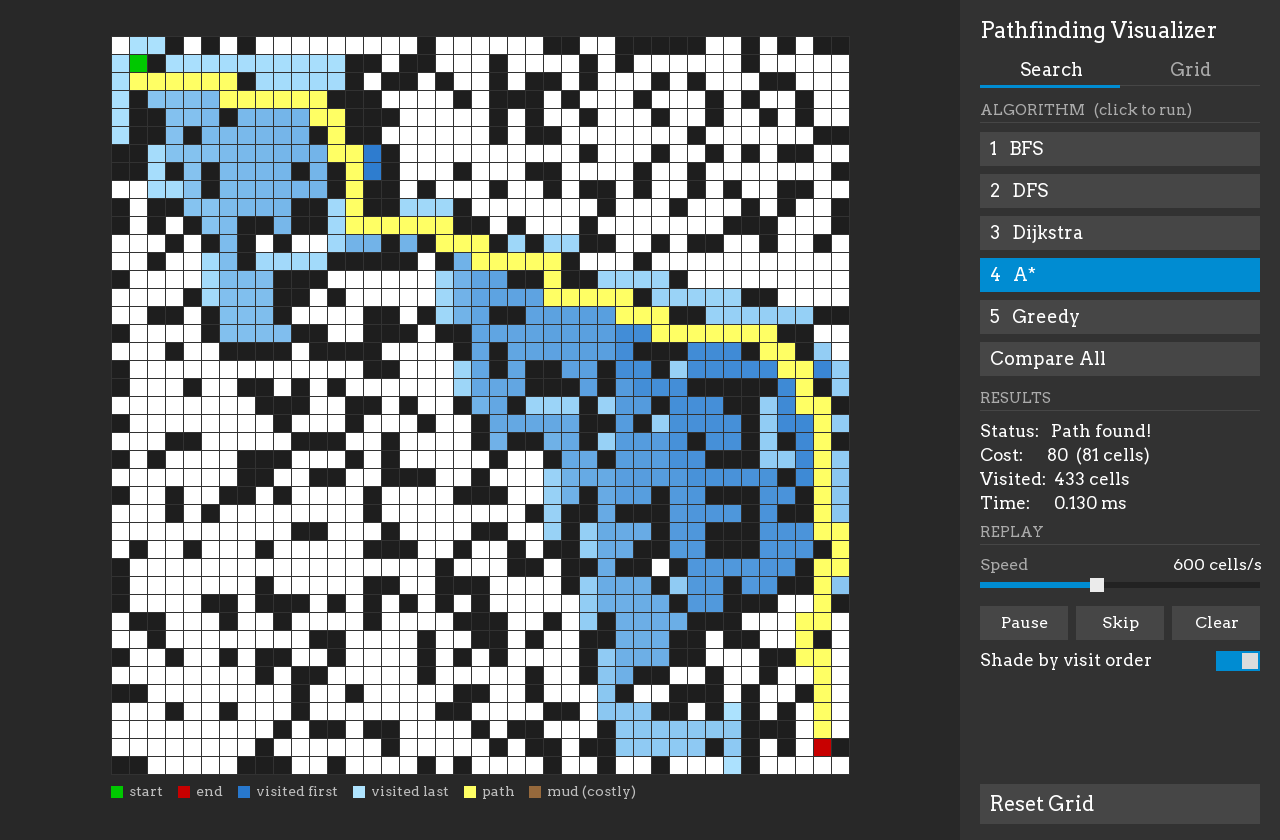
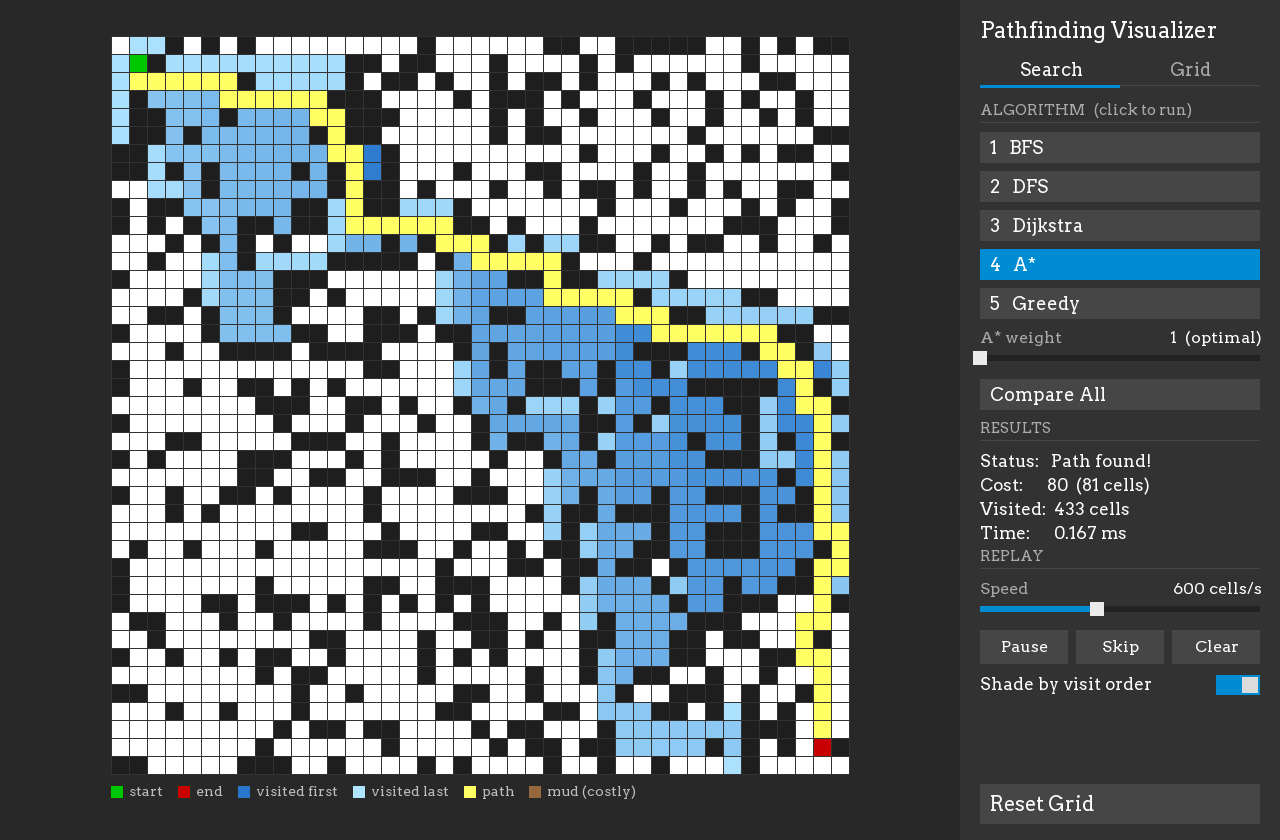
feat: weighted A* with a proven bound
- search() takes an A* weight w: priority g + w*h, integer-scaled; weight 1 is plain A*
- Property test: path cost at most w times the optimum on random weighted grids for w from 1.2 to 5
- Benchmark rows for w = 1.5, 2, 3, 5: on terrain w = 5 expands 140x fewer cells than Dijkstra for +13.7% cost
- App: A* weight slider in the Search tab; Compare All and results show the weight and its bound
- README: results and the reasoning (weight must reach the average step cost before it helps)

Changed region(s): [[0.75, 0.4643, 1.0, 0.8357], [0.75, 0.2167, 1.0, 0.4333], [0.7812, 0.1548, 0.8125, 0.1857]]

diff --git a/app/panel.cpp b/app/panel.cpp
@@ -1,5 +1,6 @@
 // The side panel: a Search tab (run, compare, replay) and a Grid tab (generate, draw).
 #include <algorithm>
+#include <cmath>
 #include <cstdio>
 #include <string>
 
@@ -48,7 +49,9 @@ void results(ui::Ui& u, State& s) {
             if (c.result.found && (best < 0 || c.result.cost < best)) best = c.result.cost;
         for (const auto& c : s.comparison) {
             const bool sel = c.algorithm == s.algorithm;
-            u.text(std::string(pf::name(c.algorithm)), 17, sel ? ui::colors::Accent : Text);
+            std::string label(pf::name(c.algorithm));
+            if (c.algorithm == pf::Algorithm::AStar && s.astar_weight > 1.05f) label += " w" + fixed(s.astar_weight, 1);
+            u.text(label, 17, sel ? ui::colors::Accent : Text);
             u.text(c.result.found ? thousands(c.result.cost) : "-", 17,
                    !c.result.found ? Dim : c.result.cost == best ? Good : Warning, 120);
             u.text(thousands(static_cast<long long>(c.result.nodes_expanded())), 17, Text, 190);
@@ -63,6 +66,8 @@ void results(ui::Ui& u, State& s) {
     if (s.result.found)
         u.line("Cost:      " + thousands(s.result.cost) + "  (" + thousands(static_cast<long long>(s.result.path.size())) + " cells)");
     u.line("Visited:  " + thousands(static_cast<long long>(s.result.nodes_expanded())) + " cells");
+    if (s.algorithm == pf::Algorithm::AStar && s.astar_weight > 1.05f)
+        u.line("Bound:    at most " + fixed(s.astar_weight, 1) + "x the cheapest", Dim, 16);
     u.line("Time:      " + fixed(s.search_ms, 3) + " ms");
 }
 
@@ -71,15 +76,18 @@ void search_tab(ui::Ui& u, State& s) {
     for (std::size_t i = 0; i < pf::kAlgorithms.size(); ++i) {
         const pf::Algorithm a = pf::kAlgorithms[i];
         const std::string label = std::to_string(i + 1) + "   " + std::string(pf::name(a));
-        if (u.button(label, a == s.algorithm && s.phase != Phase::Idle, 0, 34)) run(s, a);
+        if (u.button(label, a == s.algorithm && s.phase != Phase::Idle, 0, 31)) run(s, a);
         u.tooltip(hint(a));
     }
-    if (u.button("Compare All", false, 0, 34)) compare_all(s);
+    const float before = s.astar_weight;
+    u.slider("A* weight", s.astar_weight, 1.0f, 6.0f, s.astar_weight < 1.05f ? std::string("1  (optimal)") : fixed(s.astar_weight, 1));
+    s.astar_weight = std::round(s.astar_weight * 10.0f) / 10.0f;
+    u.tooltip("Above 1: weighted A*. Faster; path at most w times the cheapest");
+    if (s.astar_weight != before && s.algorithm == pf::Algorithm::AStar && s.phase != Phase::Idle) run(s, s.algorithm);
+    if (u.button("Compare All", false, 0, 31)) compare_all(s);
     u.tooltip("Run all five on this grid  (A)");
-    u.gap(4);
 
     results(u, s);
-    u.gap(6);
 
     u.heading("REPLAY");
     u.slider("Speed", s.speed, 25.0f, 50000.0f, thousands(static_cast<long long>(s.speed)) + " cells/s", true);

diff --git a/src/search.cpp b/src/search.cpp
@@ -2,6 +2,7 @@
 
 #include <algorithm>
 #include <array>
+#include <cmath>
 #include <cstdlib>
 #include <functional>
 #include <limits>
@@ -96,9 +97,14 @@ SearchResult dfs(const Grid& grid, Point start, Point goal) {
 // queue entries are skipped on pop (lazy deletion) instead of decreasing keys.
 enum class Order { Cost, CostPlusHeuristic, Heuristic };
 
-SearchResult best_first(const Grid& grid, Point start, Point goal, Order order) {
+// Priorities are integers: costs times kScale, so a fractional A* weight stays exact enough
+// without floating-point ties.
+constexpr long long kScale = 1000;
+
+SearchResult best_first(const Grid& grid, Point start, Point goal, Order order, double weight = 1.0) {
     SearchResult result;
     const long long h_scale = order == Order::Cost ? 0 : min_cost(grid);
+    const long long w = std::llround(std::max(weight, 1.0) * kScale);
     auto h = [&](Point p) { return h_scale * manhattan(p, goal); };
 
     std::vector<int> parent(grid.size(), -1);
@@ -110,8 +116,8 @@ SearchResult best_first(const Grid& grid, Point start, Point goal, Order order) 
 
     auto priority = [&](long long g_cost, Point p) {
         switch (order) {
-            case Order::Cost: return g_cost;
-            case Order::CostPlusHeuristic: return g_cost + h(p);
+            case Order::Cost: return g_cost * kScale;
+            case Order::CostPlusHeuristic: return g_cost * kScale + w * h(p);
             case Order::Heuristic: return h(p);
         }
         return g_cost;
@@ -165,13 +171,13 @@ bool optimal_on(Algorithm algorithm, bool uniform_cost) noexcept {
     return false;
 }
 
-SearchResult search(const Grid& grid, Point start, Point goal, Algorithm algorithm) {
+SearchResult search(const Grid& grid, Point start, Point goal, Algorithm algorithm, double astar_weight) {
     if (!grid.passable(start) || !grid.passable(goal)) return {};
     switch (algorithm) {
         case Algorithm::BFS: return bfs(grid, start, goal);
         case Algorithm::DFS: return dfs(grid, start, goal);
         case Algorithm::Dijkstra: return best_first(grid, start, goal, Order::Cost);
-        case Algorithm::AStar: return best_first(grid, start, goal, Order::CostPlusHeuristic);
+        case Algorithm::AStar: return best_first(grid, start, goal, Order::CostPlusHeuristic, astar_weight);
         case Algorithm::Greedy: return best_first(grid, start, goal, Order::Heuristic);
     }
     return {};

diff --git a/bench/bench.cpp b/bench/bench.cpp
@@ -48,20 +48,29 @@ void run(const Scenario& scenario, int size, int seeds) {
                 grids.size());
     std::printf("| Algorithm | Median time (ms) | Median cells expanded | Path cost vs optimum |\n");
     std::printf("|---|---|---|---|\n");
-    for (pf::Algorithm algorithm : pf::kAlgorithms) {
+    struct Variant {
+        pf::Algorithm algorithm;
+        double weight;
+    };
+    std::vector<Variant> variants;
+    for (pf::Algorithm a : pf::kAlgorithms) variants.push_back({a, 1.0});
+    for (double w : {1.5, 2.0, 3.0, 5.0}) variants.push_back({pf::Algorithm::AStar, w});
+    for (const auto [algorithm, weight] : variants) {
         std::vector<double> ms;
         std::vector<std::size_t> expanded;
         std::vector<double> ratio;
         for (std::size_t g = 0; g < grids.size(); ++g) {
             const auto t0 = std::chrono::steady_clock::now();
-            const auto result = pf::search(grids[g], start, goal, algorithm);
+            const auto result = pf::search(grids[g], start, goal, algorithm, weight);
             const auto t1 = std::chrono::steady_clock::now();
             ms.push_back(std::chrono::duration<double, std::milli>(t1 - t0).count());
             expanded.push_back(result.nodes_expanded());
             ratio.push_back(static_cast<double>(result.cost) / static_cast<double>(optimum[g]));
         }
-        std::printf("| %s | %.2f | %zu | %+.1f%% |\n", std::string(pf::name(algorithm)).c_str(),
-                    median(ms), median(expanded), 100.0 * (median(ratio) - 1.0));
+        std::string label(pf::name(algorithm));
+        if (weight != 1.0) label += " (w=" + std::to_string(weight).substr(0, 3) + ")";
+        std::printf("| %s | %.2f | %zu | %+.1f%% |\n", label.c_str(), median(ms), median(expanded),
+                    100.0 * (median(ratio) - 1.0));
     }
 }
 

diff --git a/tests/test_search.cpp b/tests/test_search.cpp
@@ -197,3 +197,29 @@ TEST_CASE("path_cost rejects broken walks") {
     CHECK(pf::path_cost(grid, {{1, 0}, {1, 1}}) == -1);          // through a wall
     CHECK(pf::path_cost(grid, {{0, 0}, {1, 0}, {2, 0}}) == 2);
 }
+
+TEST_CASE("weighted A* stays within its weight of the optimum (weighted grids)") {
+    const auto seed = GENERATE(range<std::uint64_t>(0, 60));
+    const Grid grid = open_corners(pf::random_terrain(40, 40, 0.2, 9, seed));
+    const auto optimum = pf::search(grid, {0, 0}, far_corner(grid), Algorithm::Dijkstra);
+    if (!optimum.found) return;
+    for (double w : {1.2, 1.5, 2.0, 3.0, 5.0}) {
+        const auto r = pf::search(grid, {0, 0}, far_corner(grid), Algorithm::AStar, w);
+        INFO("seed " << seed << " weight " << w);
+        REQUIRE(r.found);
+        CHECK(pf::path_cost(grid, r.path) == r.cost);
+        CHECK(static_cast<double>(r.cost) <= w * static_cast<double>(optimum.cost));
+    }
+}
+
+TEST_CASE("weight 1 is plain A*, and a large weight expands far fewer cells") {
+    const auto seed = GENERATE(range<std::uint64_t>(0, 30));
+    const Grid grid = open_corners(pf::random_terrain(60, 60, 0.15, 9, seed));
+    const auto plain = pf::search(grid, {0, 0}, far_corner(grid), Algorithm::AStar);
+    const auto one = pf::search(grid, {0, 0}, far_corner(grid), Algorithm::AStar, 1.0);
+    const auto five = pf::search(grid, {0, 0}, far_corner(grid), Algorithm::AStar, 5.0);
+    INFO("seed " << seed);
+    CHECK(one.cost == plain.cost);
+    CHECK(one.expanded == plain.expanded);
+    if (plain.found) CHECK(five.nodes_expanded() < plain.nodes_expanded());
+}

diff --git a/include/pathfinder/search.hpp b/include/pathfinder/search.hpp
@@ -32,8 +32,11 @@ struct SearchResult {
     [[nodiscard]] std::size_t nodes_expanded() const noexcept { return expanded.size(); }
 };
 
+// `astar_weight` w >= 1 turns A* into weighted A*: it orders cells by g + w·h, trading
+// optimality for speed. With the consistent heuristic used here the path costs at most w
+// times the optimum (no cell is ever re-expanded). Other algorithms ignore it.
 [[nodiscard]] SearchResult search(const Grid& grid, Point start, Point goal,
-                                  Algorithm algorithm);
+                                  Algorithm algorithm, double astar_weight = 1.0);
 
 // Cost of walking `path` on `grid`, or -1 if it is not a walk of passable 4-neighbours.
 [[nodiscard]] long long path_cost(const Grid& grid, const std::vector<Point>& path);

diff --git a/app/main.cpp b/app/main.cpp
@@ -2,7 +2,7 @@
 //
 //   pathfinder-app
 //   pathfinder-app --screenshot out.png [--scene maze|walls|terrain] [--algorithm bfs]
-//                  [--seed 7] [--compare] [--grid-tab]
+//                  [--seed 7] [--weight 1.5] [--compare] [--grid-tab]
 #include <cmath>
 #include <cstdio>
 #include <cstdlib>
@@ -82,6 +82,7 @@ int screenshot(int argc, char** argv, const sf::Font& font) {
         return EXIT_FAILURE;
     }
     s.algorithm = *algorithm;
+    s.astar_weight = static_cast<float>(std::atof(option(argc, argv, "--weight", "1")));
     if (has_flag(argc, argv, "--compare")) app::compare_all(s);
     else app::run(s, *algorithm);
     app::skip_to_end(s);

diff --git a/app/model.cpp b/app/model.cpp
@@ -8,7 +8,7 @@ namespace {
 
 double timed_search(const State& s, pf::Algorithm algorithm, pf::SearchResult& out) {
     const auto t0 = std::chrono::steady_clock::now();
-    out = pf::search(s.grid, s.start, s.goal, algorithm);
+    out = pf::search(s.grid, s.start, s.goal, algorithm, s.astar_weight);
     return std::chrono::duration<double, std::milli>(std::chrono::steady_clock::now() - t0).count();
 }
 

diff --git a/app/app.hpp b/app/app.hpp
@@ -40,6 +40,7 @@ struct State {
     pf::Point start{1, 1};
     pf::Point goal{39, 39};
     pf::Algorithm algorithm = pf::Algorithm::BFS;
+    float astar_weight = 1.0f;  // > 1: weighted A*, faster, at most this many times the optimum
 
     // the last search and its replay
     pf::SearchResult result;

diff --git a/README.md b/README.md
@@ -33,7 +33,8 @@ bench/                headless benchmark
   it is queued, and is expanded at most once (Dijkstra, A* and greedy skip stale queue
   entries). That makes "cells expanded" comparable across algorithms; a test checks it.
 - **A\* stays optimal on weighted grids.** Its Manhattan heuristic is scaled by the cheapest
-  cell cost, so it never overestimates. Ties go to the deeper node.
+  cell cost, so it never overestimates. Ties go to the deeper node. An optional weight w turns
+  it into weighted A* (g + w·h), bounded at w times the optimum.
 - **Mazes are perfect mazes,** carved by iterative recursive backtracking: exactly one path
   between any two open cells (a test checks it is a spanning tree). Random walls and weighted
   terrain are the other two generators. All three are seeded and deterministic.
@@ -48,58 +49,70 @@ Times are medians and vary between machines; cells expanded and path costs don't
 
 | Algorithm | Time (ms) | Cells expanded | Path cost vs optimum |
 |---|---|---|---|
-| BFS | 12.1 | 172,494 | optimal |
-| DFS | 1.9 | 33,962 | +1,839% |
-| Dijkstra | 34.7 | 172,495 | optimal |
-| A* | 5.9 | 18,961 | optimal |
-| Greedy | 0.8 | 1,893 | +33% |
+| BFS | 17.3 | 172,494 | optimal |
+| DFS | 2.9 | 33,962 | +1,839% |
+| Dijkstra | 45.3 | 172,495 | optimal |
+| A* | 7.1 | 18,961 | optimal |
+| Greedy | 1.3 | 1,893 | +33% |
+| A* w=1.5 | 2.0 | 2,454 | +8.8% |
+| A* w=2 | 1.5 | 2,275 | +16% |
+| A* w=5 | 1.4 | 1,925 | +27% |
 
 **Weighted terrain, costs 1–9, 20% walls**
 
 | Algorithm | Time (ms) | Cells expanded | Path cost vs optimum |
 |---|---|---|---|
-| BFS | 11.3 | 200,395 | +45% |
-| DFS | 1.4 | 30,870 | +3,484% |
-| Dijkstra | 44.3 | 200,394 | optimal |
-| A* | 49.0 | 200,386 | optimal |
-| Greedy | 0.7 | 1,149 | +77% |
+| BFS | 14.7 | 200,395 | +45% |
+| DFS | 2.2 | 30,870 | +3,484% |
+| Dijkstra | 60.8 | 200,394 | optimal |
+| A* | 72.2 | 200,386 | optimal |
+| Greedy | 1.3 | 1,149 | +77% |
+| A* w=2 | 73.1 | 200,329 | +0.1% |
+| A* w=3 | 68.8 | 158,289 | +0.6% |
+| A* w=5 | 1.3 | 1,431 | +13.7% |
 
 What the numbers say:
 
 - **On uniform cost, A\* expands 11% of the cells BFS and Dijkstra do** and is 6× faster than
   Dijkstra, with the same optimal path.
-- **On weighted terrain A\* gains nothing.** Its admissible heuristic (distance × the minimum
-  cost, 1) is far below the average cost of a step (~5), so it barely guides the search: it
-  expands as much as Dijkstra and pays for computing the heuristic. A tighter heuristic would
-  give up the optimality guarantee.
+- **On weighted terrain plain A\* gains nothing.** Its admissible heuristic (distance × the
+  cheapest cell cost, 1) is far below the average cost of a step (~5), so it barely guides the
+  search: it expands as much as Dijkstra and pays for computing the heuristic.
+- **Weighted A\* fixes that, at a bounded price.** Ordering by g + w·h gives up optimality but
+  guarantees a path at most w times the cheapest (a test checks the bound on random grids). On
+  terrain nothing happens until w approaches the average step cost: at w = 3 it still expands
+  158k cells, at **w = 5 it expands 1,431 (140× fewer than Dijkstra) and runs 45× faster, for a
+  path 13.7% costlier**. On uniform grids w = 1.5 already cuts expansions 7.7× for +8.8%.
 - **BFS ignores cost.** On terrain it takes 45% more expensive paths. It is still the fastest
   optimal search on uniform grids, since a FIFO queue is cheaper than a heap.
 - **Greedy is fastest and wrong,** 33–77% off the optimum. DFS is worse.
-- In a perfect maze every algorithm finds the only path; A* saves 3% of the expansions.
+- In a perfect maze every algorithm finds the only path; even w = 5 saves only 11% of A*'s
+  expansions, because a maze leaves no shortcut to aim for.
 
-**Compare All** runs the five algorithms on the grid on screen. On this weighted terrain
-(browner cells cost more) BFS pays 389 and greedy 430, while Dijkstra and A* both find the
-optimum of 253; A* visits 1,433 cells against Dijkstra's 1,440, the weak-heuristic effect from
-the table above:
+**Compare All** runs the five algorithms on the grid on screen. On this weighted terrain BFS
+pays 389 and greedy 430, Dijkstra finds the optimum of 253 after visiting 1,440 cells, and A*
+with weight 5 finds a path of 270 (7% more) after visiting only 84:
 
 ![All five algorithms on weighted terrain](docs/terrain-compare.png)
 
 ## Tests
 
-`ctest --test-dir build` runs 13 Catch2 test cases (about 1,850 assertions), most of them
+`ctest --test-dir build` runs 15 Catch2 test cases (about 2,650 assertions), most of them
 properties checked on hundreds of seeded random grids:
 
 - every returned path is a valid walk of passable neighbours, with the reported cost;
 - all algorithms agree on whether the goal is reachable; a walled-off goal is "not found"
   after exploring exactly the reachable cells;
-- A* always matches Dijkstra's cost and never expands more cells;
+- A* always matches Dijkstra's cost and never expands more cells; weighted A* stays within
+  w times the optimum for w from 1.2 to 5, and weight 1 is exactly plain A*;
 - on uniform cost BFS is optimal, and DFS and greedy never beat it; on terrain BFS is not
   (a hand-built case where the short route is the expensive one);
 - every cell is expanded at most once;
 - a perfect maze is connected and a tree.
 
 The tests catch a broken algorithm, not just a crash: making the A* heuristic overestimate
-(×3) fails the A*-matches-Dijkstra property. CI builds with GCC and Clang (warnings as
+(×3) fails the A*-matches-Dijkstra property, and a weight secretly 4× too strong fails the
+weighted-A* bound. CI builds with GCC and Clang (warnings as
 errors) and runs the tests again under AddressSanitizer and UBSan.
 
 ## Build and run
@@ -122,7 +135,8 @@ with sanitizers.
 
 - **Search:** click an algorithm to run it (or `1`–`5`; `Space` runs it again). The visited
   cells fill in at the replay speed, then the path traces back from the end. **Compare All**
-  (`A`) runs all five on the current grid and lists their cost and cells visited. Pause (`P`),
+  (`A`) runs all five on the current grid and lists their cost and cells visited. The **A\*
+  weight** slider (1–6) turns A* into weighted A*. Pause (`P`),
   skip (`E`) or clear the replay; "Shade by visit order" colours visited cells from dark blue
   (first) to light blue (last), so you can watch the search spread.
 - **Grid:** Empty, Random, Maze or Terrain, with sliders for size, wall density and seed.
